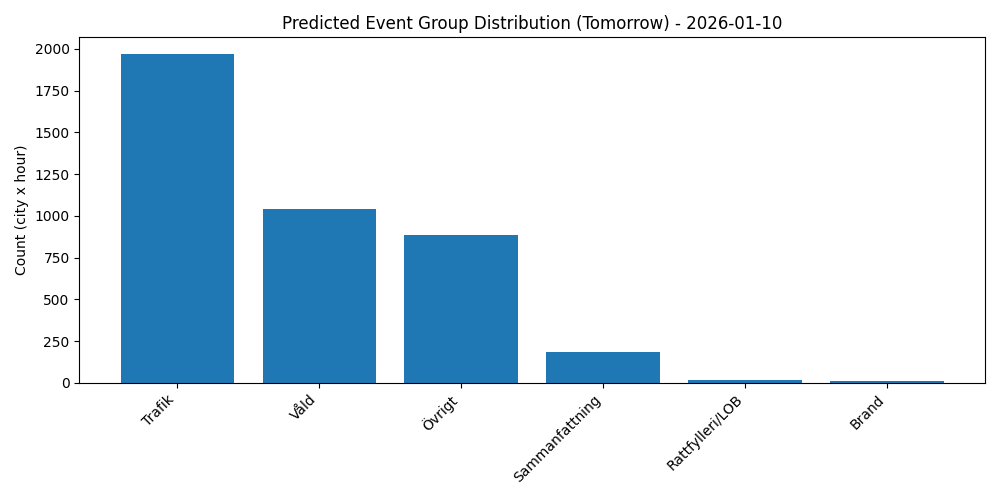
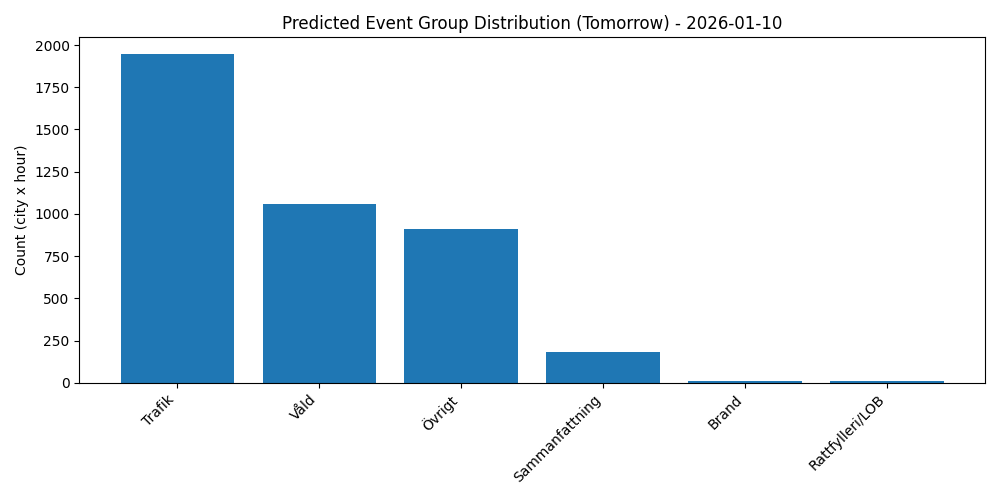
downgrade sklearn

diff --git a/src/3_inference_pipeline.py b/src/3_inference_pipeline.py
@@ -12,6 +12,8 @@ import matplotlib.pyplot as plt
 
 from sklearn.metrics import confusion_matrix
 
+from xgboost import XGBClassifier
+
 
 # -----------------------------
 # Config
@@ -30,6 +32,7 @@ if not API_KEY:
 CACHE_FILE = "src/city_coords.json"
 
 MODEL_NAME = "police_crime_model"
+MIN_VERSION = 38
 
 EVENTS_FG_NAME = "police_events"
 EVENTS_FG_VERSION = 2  # must match your daily FG version
@@ -100,10 +103,13 @@ def save_confusion_matrix_png(cm, labels, out_path: str, title: str):
 
 
 def get_best_model(mr):
-    try:
-        return mr.get_best_model(MODEL_NAME, "balanced_accuracy", "max")
-    except Exception:
-        return mr.get_best_model(MODEL_NAME, "accuracy", "max")
+    models = mr.get_models(name=MODEL_NAME)
+    candidates = [m for m in models if m.version >= MIN_VERSION]
+    best_model = max(
+        candidates,
+        key=lambda m: m.training_metrics.get("balanced_accuracy", float("-inf"))
+    )
+    return best_model
 
 
 def predict_group(model_bundle, X: pd.DataFrame) -> pd.Series:
@@ -123,7 +129,7 @@ def inference_and_monitor():
     mr = project.get_model_registry()
 
     # ---- Load best model ----
-    print("📥 Fetching best model from registry...")
+    print("📥 Fetching latest model from registry...")
     best = get_best_model(mr)
     print(f"✅ Using model version: {best.version}")
     model_dir = best.download()
